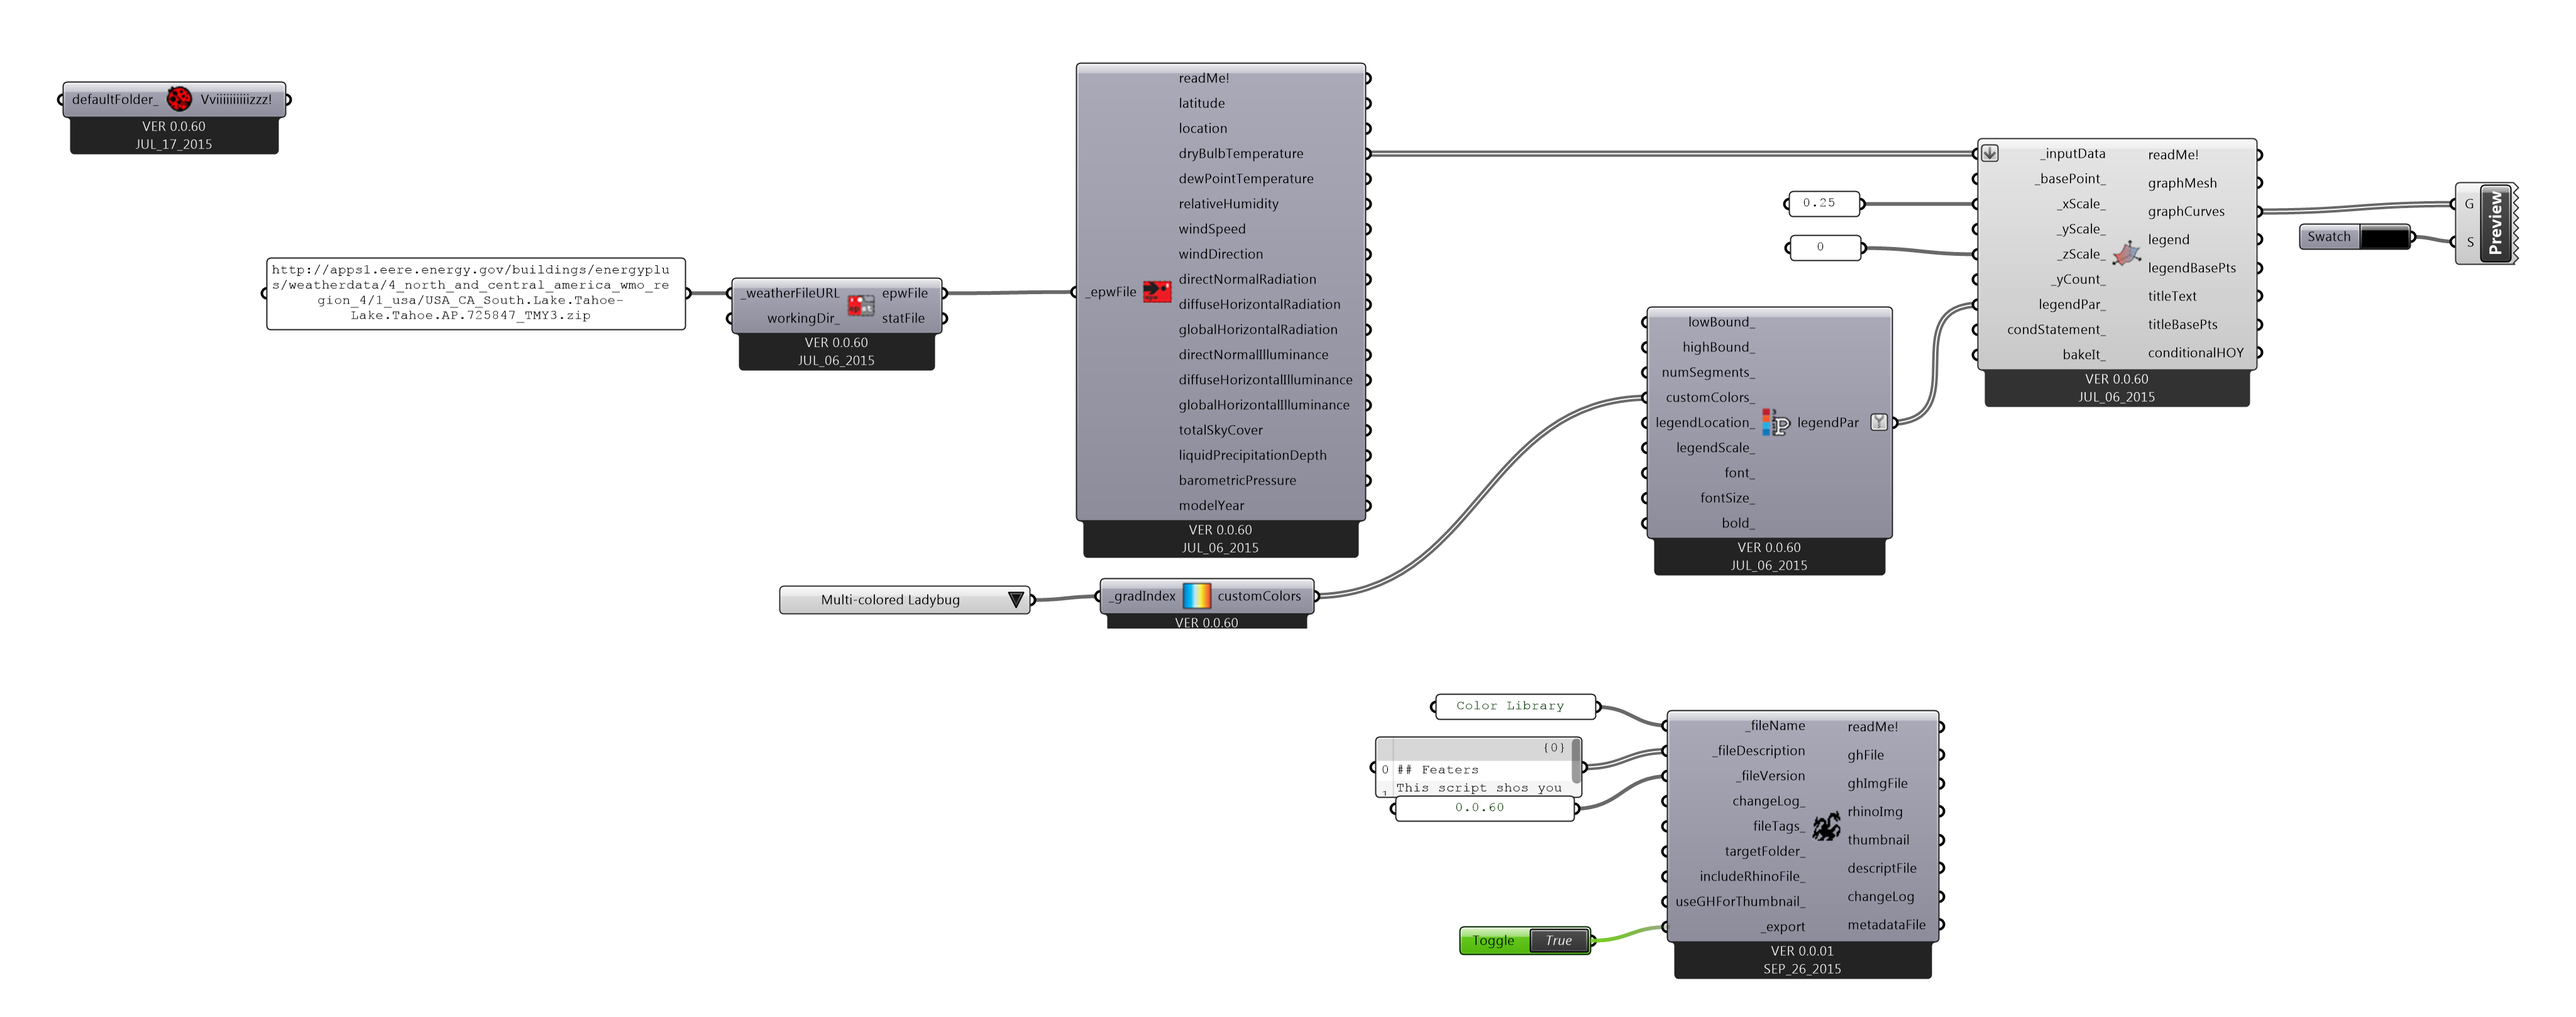
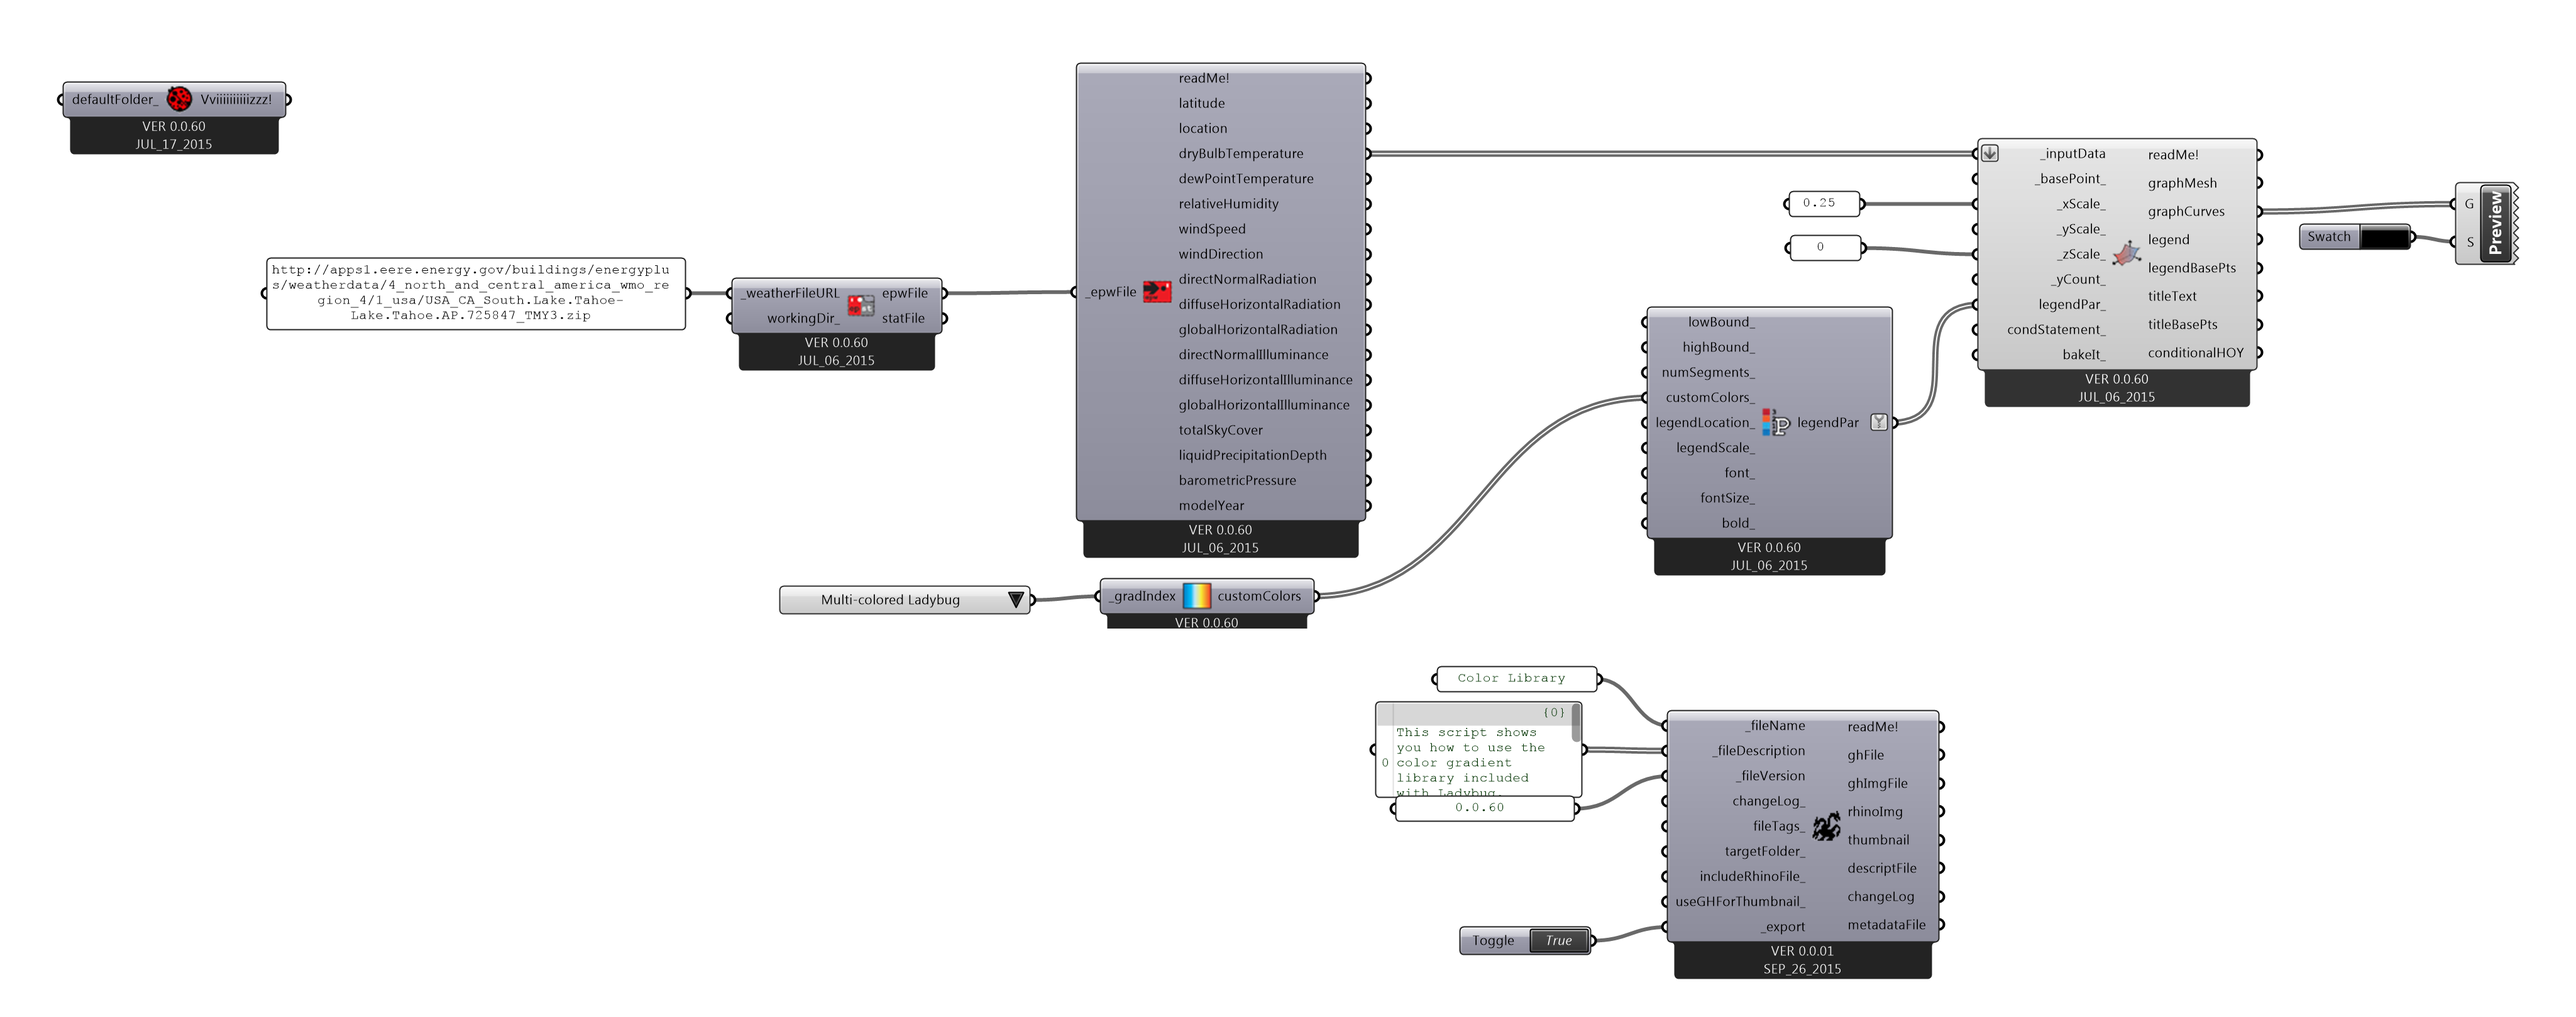
Updated Readme

Changed region(s): [[0.531, 0.6489, 0.6559, 0.7726], [0.5622, 0.8962, 0.5935, 0.958]]

diff --git a/Color_Library/README.md b/Color_Library/README.md
@@ -1,3 +1,3 @@
 ### Description 
-## Featers
-This script shos you colors!
+This script shows you how to use the color gradient library included with Ladybug.
+This library allows you uick access to a number of commonly-used gradient color shcemes so that you do not need to create the gradients yourself.
